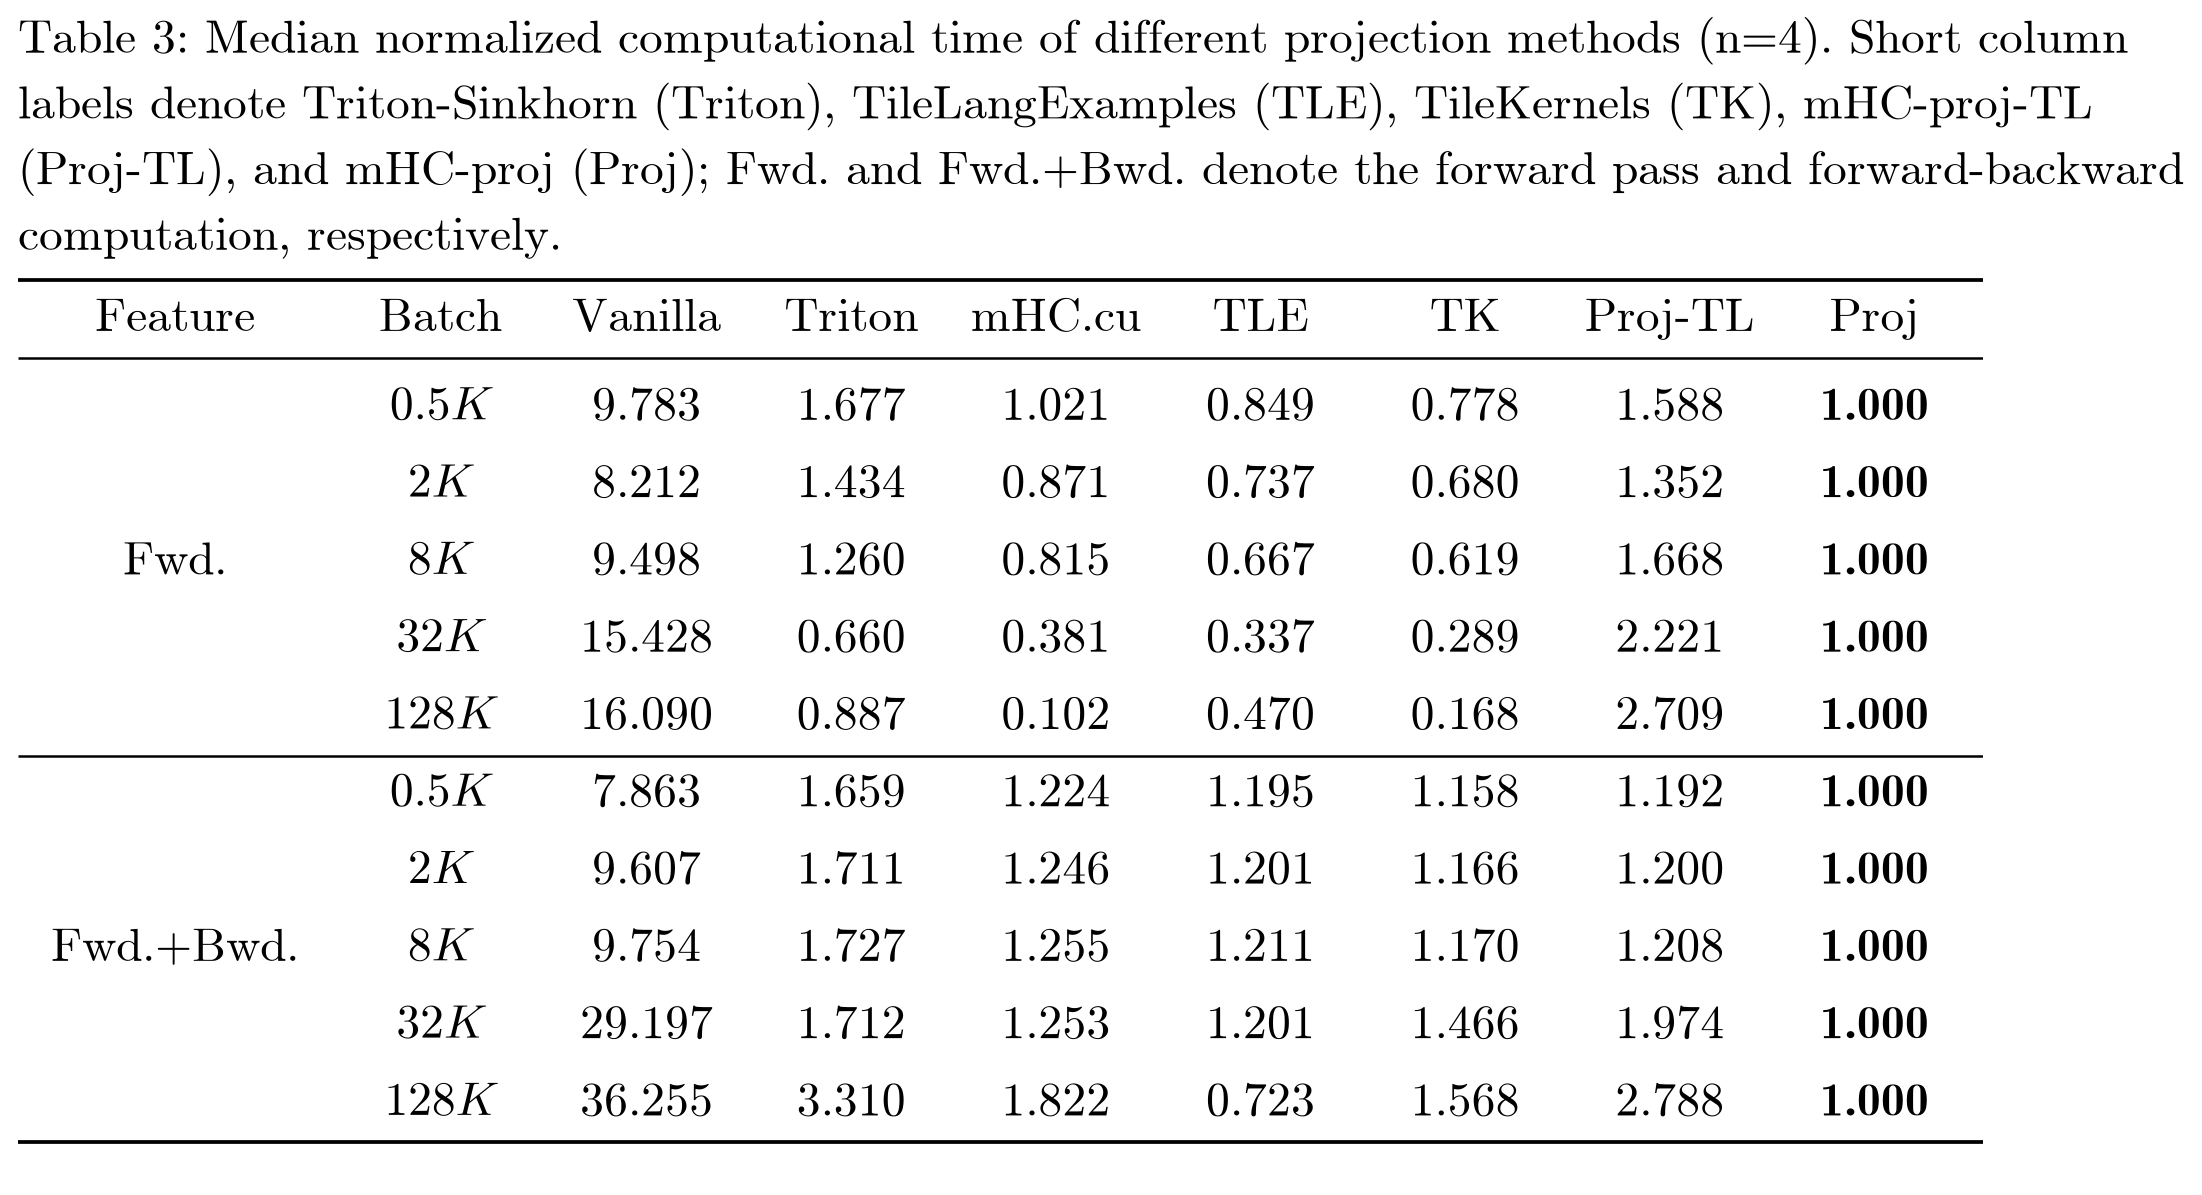
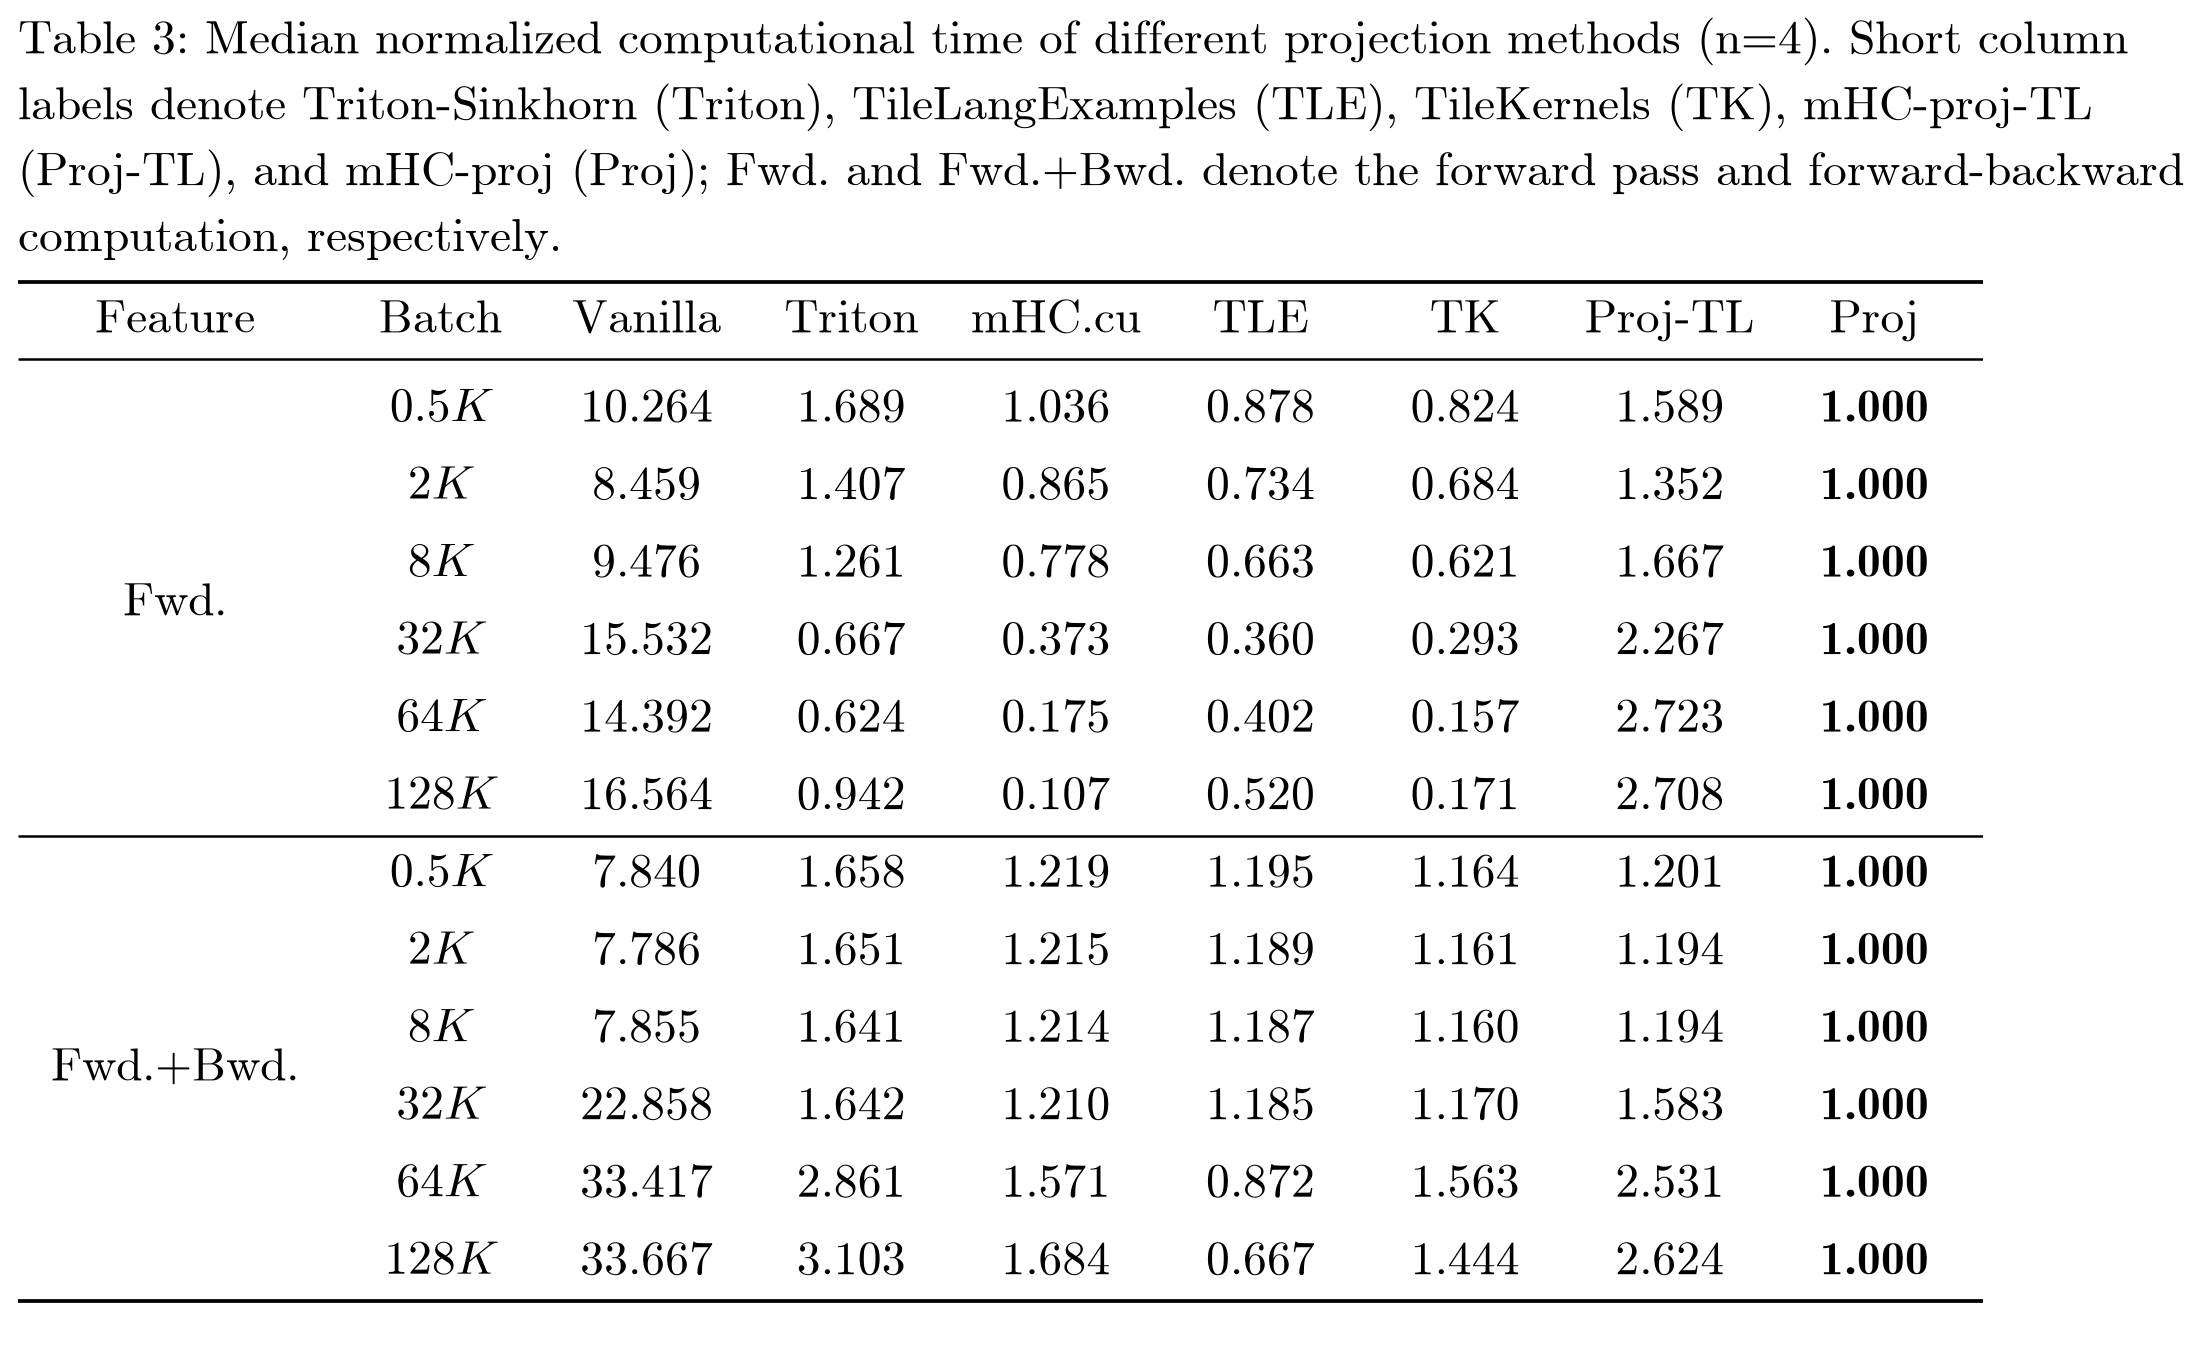
feat(benchmark): add 64K batch size and refresh runtime tables

Changed region(s): [[0.0, 0.0, 1.0, 0.9598], [0.0309, 0.7741, 0.1235, 0.805], [0.0618, 0.4335, 0.0926, 0.4954]]

diff --git a/benchmark/run.py b/benchmark/run.py
@@ -205,7 +205,7 @@ def parse_args() -> argparse.Namespace:
     parser.add_argument("--scale", type=int, nargs="+", default=(1, 10))
     parser.add_argument("--accuracy-batch-size", type=int, default=10000)
     parser.add_argument(
-        "--batch-size", type=int, nargs="+", default=(512, 2048, 8192, 32768, 131072)
+        "--batch-size", type=int, nargs="+", default=(512, 2048, 8192, 32768, 65536, 131072)
     )
     parser.add_argument(
         "--backends", nargs="+", choices=tuple(BACKENDS), default=tuple(BACKENDS)

diff --git a/tests/test_benchmark_runtime.py b/tests/test_benchmark_runtime.py
@@ -171,6 +171,6 @@ def test_defaults(runtime, monkeypatch):
     assert args.n == (4,)
     assert args.scale == (1, 10)
     assert args.accuracy_batch_size == 10000
-    assert args.batch_size == (512, 2048, 8192, 32768, 131072)
+    assert args.batch_size == (512, 2048, 8192, 32768, 65536, 131072)
     assert (args.warmup, args.iterations, args.runs) == (100, 100, 10)
     assert not args.overwrite
